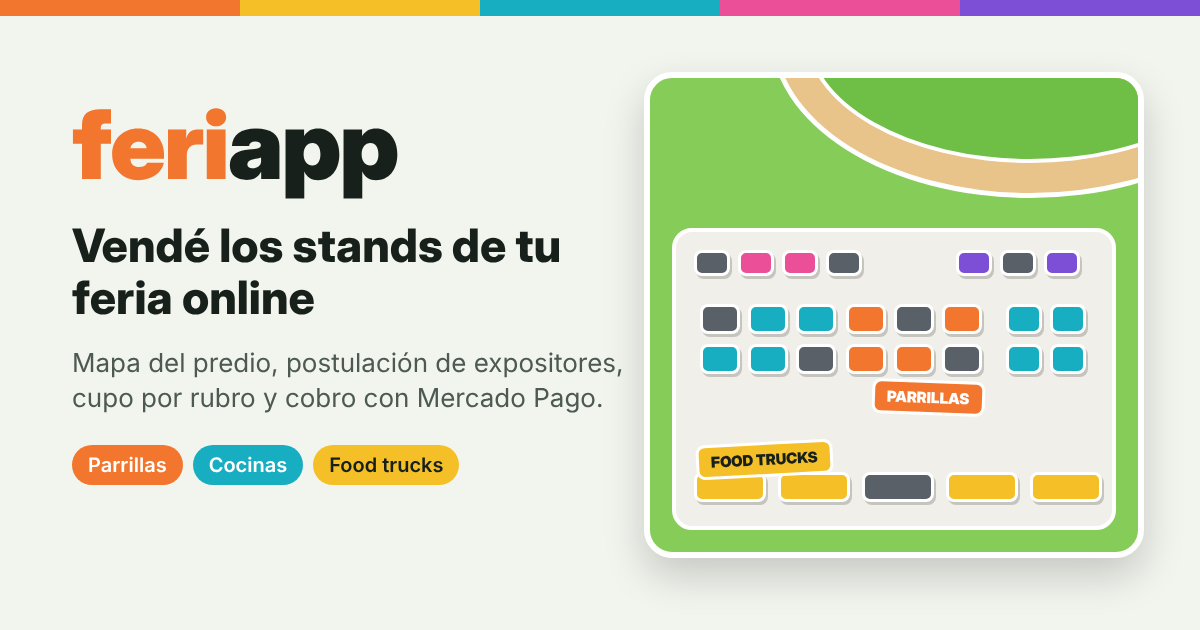
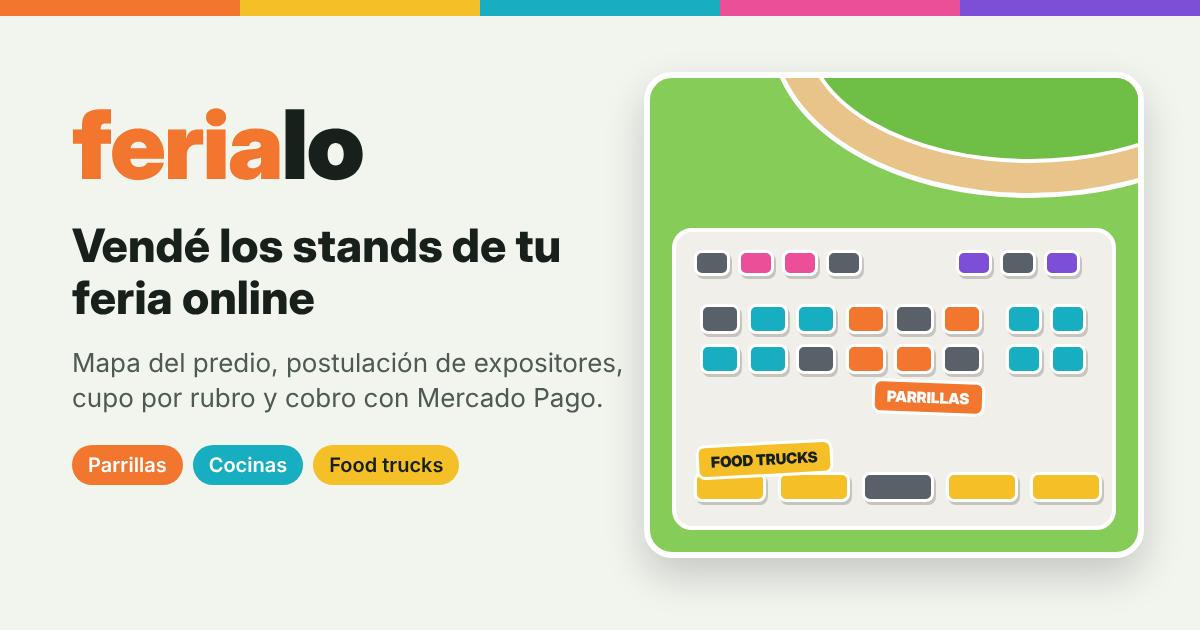
Cambia el nombre a Ferialo
Claude-Session: https://claude.ai/code/session_014GEfHoc2NfZxnbsSz3ZLpF

Changed region(s): [[0.185, 0.181, 0.3392, 0.3317]]

diff --git a/index.html b/index.html
@@ -7,7 +7,7 @@
 <meta name="description" content="Vendé los stands de tu feria online: mapa del predio, postulación de expositores, cupo por rubro y cobro con Mercado Pago.">
 <meta property="og:type" content="website">
 <meta property="og:url" content="https://feriapp-beta.vercel.app/">
-<meta property="og:title" content="Feriapp: vendé los stands de tu feria online">
+<meta property="og:title" content="Ferialo: vendé los stands de tu feria online">
 <meta property="og:description" content="Mapa del predio, postulación de expositores, cupo por rubro y cobro con Mercado Pago. Mirá la demo.">
 <meta property="og:image" content="https://feriapp-beta.vercel.app/og.png">
 <meta property="og:image:width" content="1200">
@@ -15,7 +15,7 @@
 <meta property="og:locale" content="es_AR">
 <meta name="twitter:card" content="summary_large_image">
 <meta name="twitter:image" content="https://feriapp-beta.vercel.app/og.png">
-<title>Feriapp Sabores de Palermo</title>
+<title>Ferialo Sabores de Palermo</title>
 <meta name="claude:viewport-fit-sides" content="cover">
 <link rel="preconnect" href="https://fonts.googleapis.com">
 <link rel="stylesheet" href="https://fonts.googleapis.com/css2?family=Rubik:wght@500;700;800;900&family=Figtree:wght@400;500;600;700&family=JetBrains+Mono:wght@500;700&display=swap">
@@ -137,7 +137,7 @@ input[type=text],select{font:15px var(--f-body);padding:9px 10px;border:1px soli
 <div class="wrap">
   <header class="top">
     <div>
-      <div class="brand"><span class="f">feri</span>app <span class="demo-tag">Demo · datos de ejemplo</span></div>
+      <div class="brand"><span class="f">feria</span>lo <span class="demo-tag">Demo · datos de ejemplo</span></div>
       <h1>Feria Sabores de Palermo</h1>
       <div class="meta">
         <span>Sáb 12 y dom 13 de diciembre · 12 a 23 h</span>
@@ -429,7 +429,7 @@ document.getElementById("view-org").addEventListener("click",e=>{
   const s = S(b.dataset.id);
   if(b.dataset.a==="ok"){ s.status="approved"; toast(`Aprobado. Le enviamos a ${s.name} el link de pago.`); }
   if(b.dataset.a==="no"){ Object.assign(s,{status:"free",name:undefined,rubro:undefined,extras:[]}); toast("Postulación rechazada. El stand vuelve a estar disponible."); }
-  if(b.dataset.a==="pay"){ s.status="paid"; toast(`${s.name} pagó ${money(totalOf(s))}. Comisión Feriapp: ${money(totalOf(s)*FEE)}.`); }
+  if(b.dataset.a==="pay"){ s.status="paid"; toast(`${s.name} pagó ${money(totalOf(s))}. Comisión Ferialo: ${money(totalOf(s)*FEE)}.`); }
   renderOrg(); drawStands(); renderPanel();
 });
 

diff --git a/README.md b/README.md
@@ -1,5 +1,5 @@
-# Feriapp
+# Ferialo
 
-Demo de Feriapp: venta y reserva de stands para ferias, con mapa del predio, postulación de expositores, control de cupo por rubro y panel del organizador.
+Demo de Ferialo: venta y reserva de stands para ferias, con mapa del predio, postulación de expositores, control de cupo por rubro y panel del organizador.
 
 Sitio estático: `index.html`. Se despliega en Vercel sin configuración.
